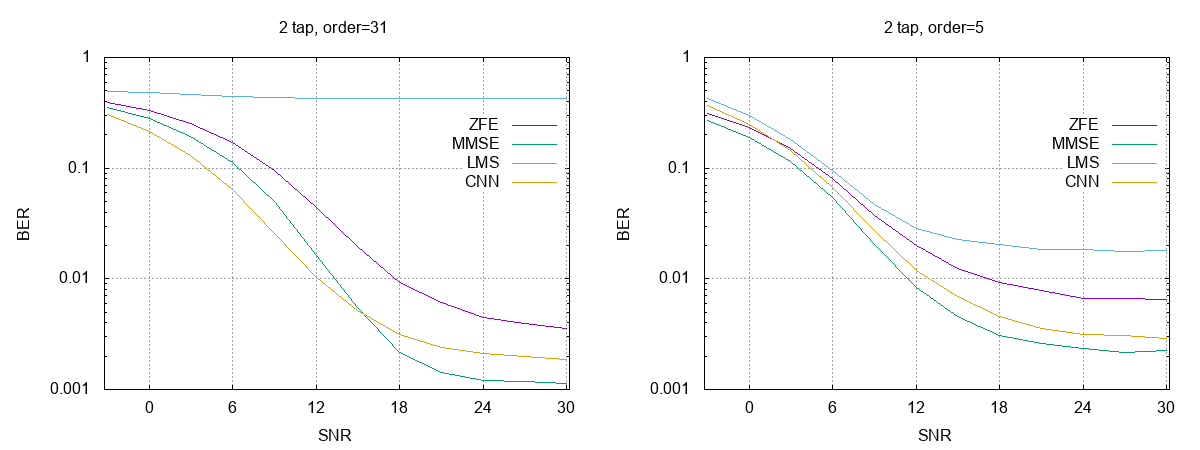
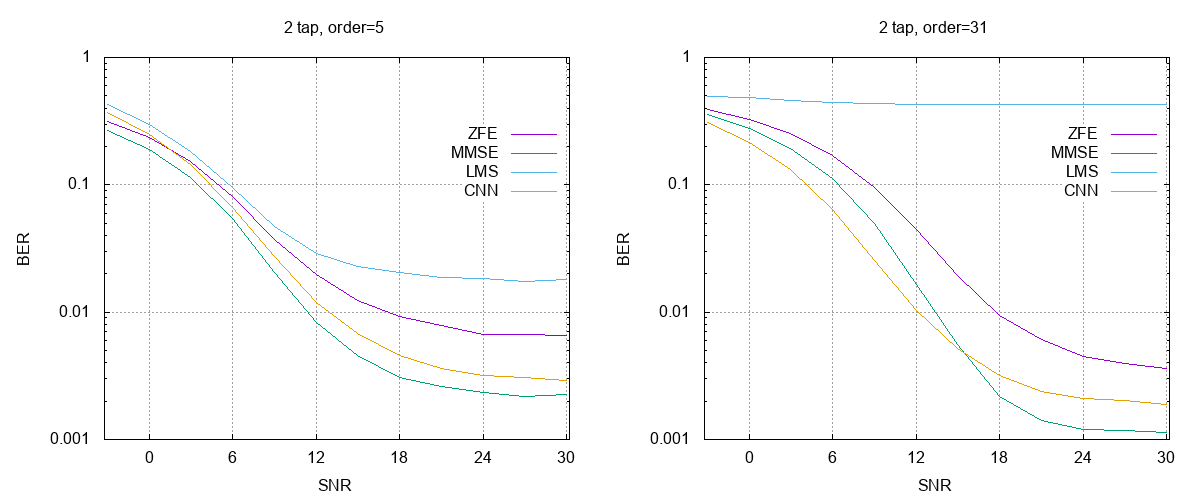
FIX

diff --git a/generateData-zf.py b/generateData-zf.py
@@ -15,19 +15,19 @@ data_size = 20000
 # zf_data = 'data/zf_data_snr10_pream40'
 
 # model parameters
-order = 5
 expand = 8192
 eps = 0
 snr = 10
 
 if __name__ == "__main__":
     parser = ArgumentParser('gen-zf')
-    parser.add_argument('-o', '--output')
-    parser.add_argument('-p', '--pream', nargs='?', type=int, default=40)
+    parser.add_argument('-o', '--output', required=True)
+    parser.add_argument('-O', '--order', required=True, type=int)
+    parser.add_argument('-p', '--pream', type=int, default=40)
     args = parser.parse_args()
 
     pream, tap, pream_recv = offline.gen_ktap(data_size, args.pream, tap_size, snr)
-    inverse = inverse_tap_fft(tap, expand=expand, trunc=order, eps=eps)
+    inverse = inverse_tap_fft(tap, expand=expand, trunc=args.order, eps=eps)
     data2save = {
         'pream': pream,
         'pream_recv': pream_recv,
@@ -35,5 +35,5 @@ if __name__ == "__main__":
         'gen_taps': tap,
     }
 
-    with gzip.open(args.output + '.gz', 'wb') as f:
+    with gzip.open(args.output, 'wb') as f:
         pickle.dump(data2save, f)

diff --git a/equalizer/model/tap.py b/equalizer/model/tap.py
@@ -63,6 +63,7 @@ class TapEqualizer(nn.Module):
 class CNNEstimator(nn.Module):
     def __init__(self, tap_size, im=True):
         super(CNNEstimator, self).__init__()
+        self.tap_size = tap_size
         self.conv1 = nn.Conv1d(4, 32, 3, padding=1)
         self.conv2 = nn.Conv1d(32, 64, 3, padding=1)
         self.im = im
@@ -95,9 +96,9 @@ class CNNEstimator(nn.Module):
         return ret
 
 class HybridLmsEstimator(object):
-    def __init__(self, model, order, split=0.5, algo=lms, **params):
+    def __init__(self, model, split=0.5, algo=lms, **params):
         self.model = model
-        self.order = order
+        self.order = model.tap_size
         self.split = split
         self.algo = lambda s, r, w: algo(offline.to_complex(r), offline.to_complex(s), self.order, init=w, pad_left=False, **params)
     

diff --git a/modelBank.py b/modelBank.py
@@ -12,7 +12,7 @@ def load_est_model(order, path):
     return ret
 
 cnn_est = load_est_model(5, path_cnn)
-hybrid_est = HybridLmsEstimator(cnn_est, 5, 0.5)
+hybrid_est = HybridLmsEstimator(cnn_est, mu=0.03)
 
 est_bank = {
     "zf-31": ZeroForcingEstimator(expand=8192, trunc=31, eps=0),
